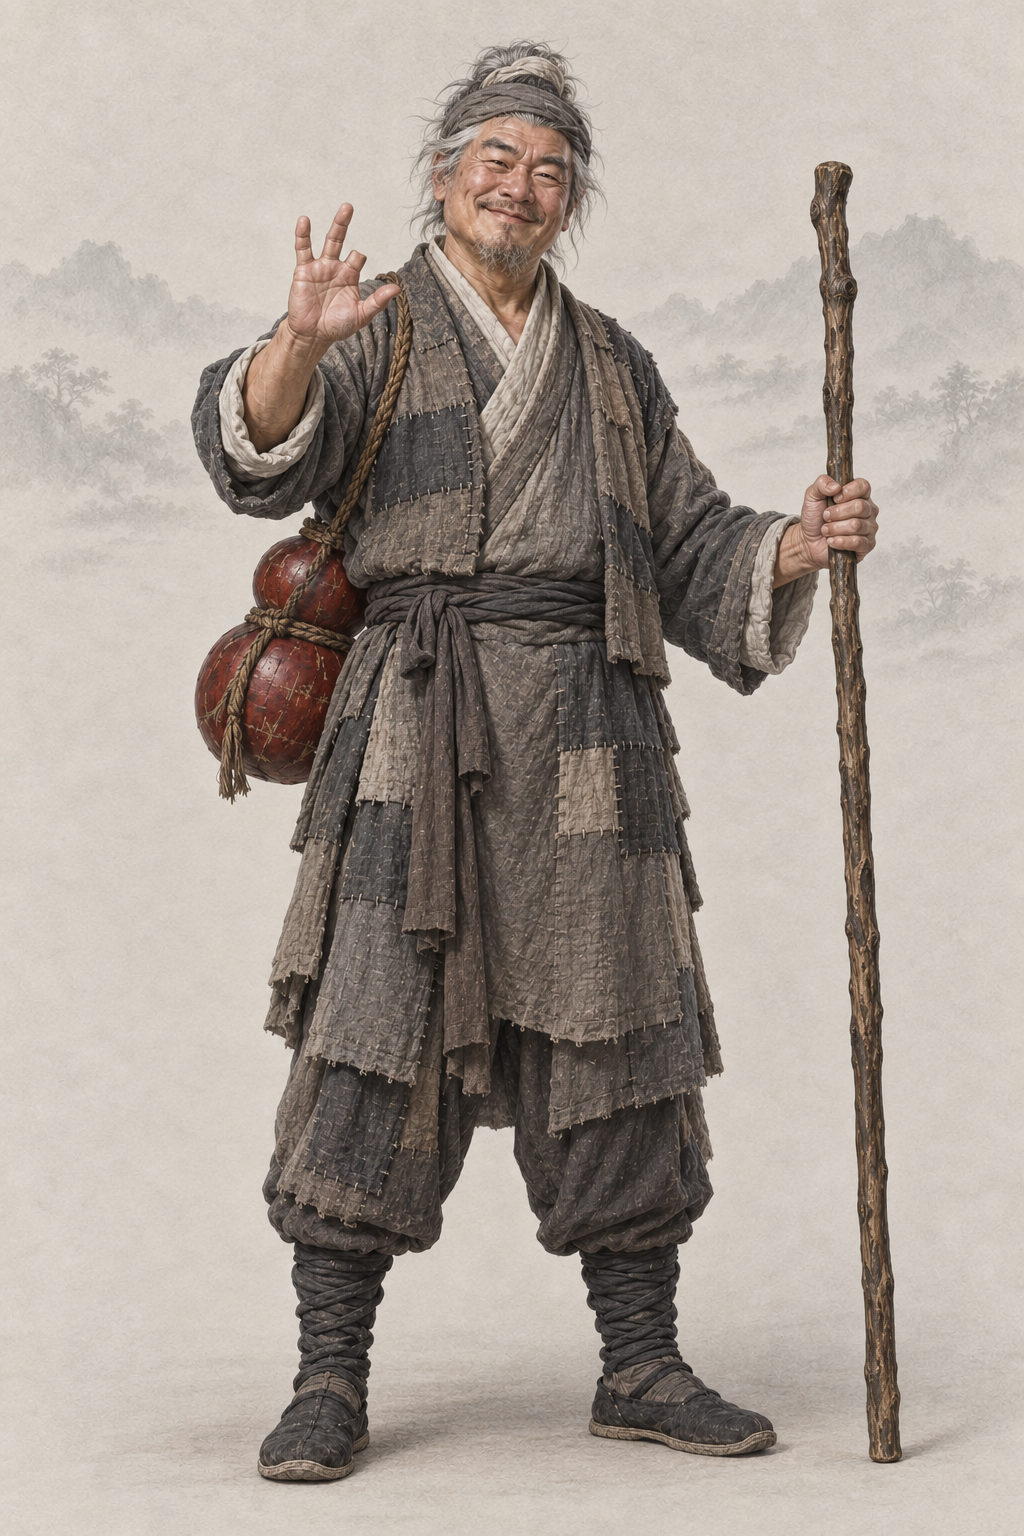
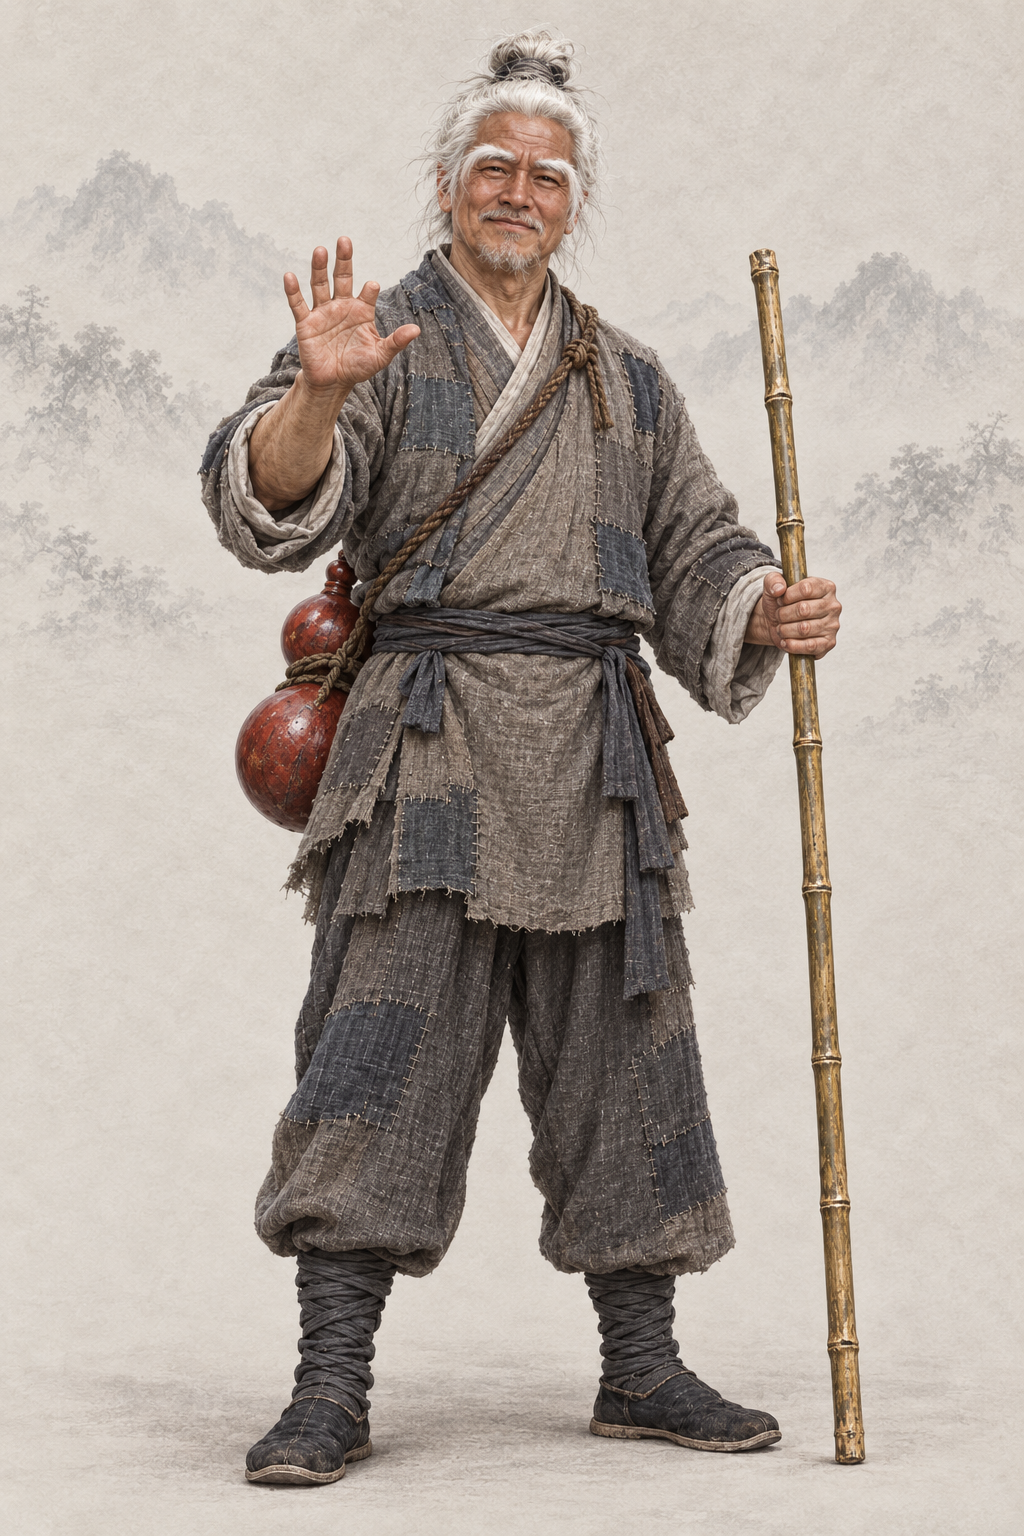
assets(character): por_npc_hongqigong__ch03_elder_base 洪七公（codex · AR-32 补记修改 A：同一人锚点 + 1983 TVB《射雕英雄传》（经由本轮新出的射雕洪七公锚点传递，另附 1 张剧照） 剧照 + 基线）
作者 10-02：改微须；以本轮新出的射雕洪七公为同一人锚点，年长十余岁。上传顺序：第 1 张为本轮新出的射雕洪七公立绘（同一人锚点，por_npc_hongqigong__ch02_elder_bangzhu_base）；第 2 张为 1983 TVB《射雕英雄传》洪七公剧照（hongqigong_1983_liudan_sina2001.jpg），最后两张为同性别基线；r1；提示词写回，旧段留作历史。

diff --git a/assets/default/prompts/characters/ch03-shendiao/npc_hongqigong.md b/assets/default/prompts/characters/ch03-shendiao/npc_hongqigong.md
@@ -12,11 +12,18 @@ references:
   - path: assets/default/baseline/character/male/ref_npc_xiaofeng__ch01_base01.png
     use: 当前工作区 manifest 为 candidate，未获批准；仅约束纸底、光线、笔触、设色，不沿用参考人物的脸、体型、服饰或道具。
 status: new
-redo_reason: "神雕洪七公尚无立绘；上传本轮新出的射雕洪七公作身份参考，同一人老二十年、仍九指背葫芦"
+codex_prompt_rev: 2026-10-02
+redo_reason: 作者 10-02：改微须——原著「颏下微须」；以本轮新出的射雕洪七公作同一人锚点，年长十余岁；九指、朱红葫芦不变（打狗棒已传黄蓉，改持普通旧竹杖）
 reference_upload:
 - assets/default/character/male/ch02/por_npc_hongqigong__ch02_elder_bangzhu_base.png
+- .agents/coord/imagegen-reference/identity-20261001/shediao/hongqigong_1983_liudan_sina2001.jpg
 - assets/default/baseline/character/male/ref_npc_linghuchong__ch05_base01.png
-codex_prompt_rev: 2026-10-02
+- assets/default/baseline/character/male/ref_npc_xiaofeng__ch01_base01.png
+classic_ref:
+  version: 1983 TVB《射雕英雄传》（经由本轮新出的射雕洪七公锚点传递，另附 1 张剧照）
+  stills:
+  - .agents/coord/imagegen-reference/identity-20261001/shediao/hongqigong_1983_liudan_sina2001.jpg
+  anchor: assets/default/character/male/ch02/por_npc_hongqigong__ch02_elder_bangzhu_base.png
 ---
 
 <!-- full-coverage-import:current-policy:v1 -->
@@ -29,6 +36,25 @@ codex_prompt_rev: 2026-10-02
 # 洪七公 · 《神雕侠侣》（ch03）
 
 ## Gemini 提示词
+
+> 2026-10-02 AR-32 补记修改 A（9 号出图员，codex exec · image_gen）：作者 10-02：改微须；以本轮新出的射雕洪七公为同一人锚点，年长十余岁。上传顺序：第 1 张为本轮新出的射雕洪七公立绘（同一人锚点，por_npc_hongqigong__ch02_elder_bangzhu_base）；第 2 张为 1983 TVB《射雕英雄传》洪七公剧照（hongqigong_1983_liudan_sina2001.jpg），最后两张为同性别画风基线（缩小版 JPEG）。参考图只借造型、气质与面部特征，画面按项目画风重绘、不复制照片。上一版保留在下一节作历史。
+
+```text
+生成一张 2:3 竖幅全身人物立绘：单人、单一视角、完整全身——头顶、双手、双脚和手中器物的两端都在画面内，四周留出自然空白；人物站姿自然，身体基本朝向正面，头部端正（不歪头、不仰不俯），镜头平视。
+【参考图】第 1 张参考图是本项目刚画好的《射雕》时期洪七公立绘（同一人锚点）：这是同一个人十几年后的样子——长方脸、五官、颏下微须的样式、粗大的骨架和九指都以第 1 张为准，自然老去，不要换成另一个人；不照搬它的构图和姿势。第 2 张是该角色经典影视造型的剧照，只借老叫化的神采与气度，剧照里的白色长髯不要；必须重新绘制成项目画风，不要照片质感。最后两张是本项目画风基线：画风、用色、光线、质感和暖浅灰纸底加淡水墨背景以它们为准，但不取基线人物的长相。
+【画风】写实手绘古风人物插画，与本项目写实武侠角色立绘同一画风，像功力深厚的画师用细腻笔触画出的真实人物。手绘插画质感，不是 CG 渲染：不要过度光滑的皮肤、完美对称的五官、塑料高光、过度锐利的发丝；保留自然的笔触和细微不完美。皮肤有真实质感——细小毛孔、细纹、晒痕和自然的左右不对称，不磨皮、不油亮；头发是一缕缕自然的发丝和少量碎发；布料看得出经纬纹理、厚薄和自然垂坠的褶皱，带穿用过的轻微旧化，但完整不破烂；整体设色低饱和、沉稳；柔和的自然光从左上方照来，明暗过渡自然，不打舞台光、轮廓光或美颜柔光。不是照片，不是三维渲染，不是动漫或游戏 CG，也不是油画（没有厚涂笔触和画布纹理）。
+【背景】不透明的暖浅灰色纸底，只在远处有极淡的水墨远山和薄雾，大面积留白；人物与背景明暗分明、轮廓边缘干净完整（后续要自动抠图），水墨和纸纹只在背景里，不侵入人物和衣服；脚下只有很淡的一点接触阴影。
+【人物】洪七公，《神雕侠侣》时期的老年北丐、前任丐帮帮主（打狗棒已传给黄蓉）；华山雪峰与杨过相遇、命终之前，依旧豪爽诙谐。
+【年龄与体态】约七十岁、精神矍铄的老叫化：比第 1 张年长十余岁，骨架仍然粗大、粗手大脚，人清瘦了些，但腰板仍直、精神十足，不老态龙钟。
+【面容】同一张长方脸自然老去：头发和眉毛都已全白，皱纹更深，眼角和额头的纹路更密；胡须仍是原著的颏下微须——下巴颏下几绺短而稀疏的白须，贴着下巴、长不过一寸多，唇上只有极短的白髭，两腮没有胡子；眼睛细长带笑，鼻头大而红润；脸色仍然红润，皮肤粗糙、有风霜和老人斑。
+【服饰】厚实的灰褐色交领旧布袍（右衽，左襟压右襟），外罩一件打满补丁的短褂（补丁整洁、洗得干净），深色布带，裹腿布鞋，衣着完整御寒；白发在头顶挽个髻，用旧灰布条束住。
+【道具】背上斜背那只朱红漆大酒葫芦，系绳清楚；左手扶一根普通的旧黄竹杖（不是碧绿的打狗棒），五指完整。右手抬到胸前、掌心朝外——九指：右手食指缺了一截，只剩靠近掌根的短短一节，断处早已愈合成圆钝光滑的指头（无血、无伤口），拇指、中指、无名指、小指完整。
+【姿态与神情】站姿洒脱，身体基本正面，笑眯眯、豪爽乐观。
+【不要】画面里不要任何文字、题款、印章、签名、水印、边框、分格或多视图；不要第二个人；不要幼态（童颜、娃娃脸、婴儿肥、儿童或少年身材、大头小身）；不要塑料感皮肤、磨皮美颜、网红脸（尖下巴大眼高鼻的模板脸）、过度对称、浓妆、偶像式打光、蜡像感；不要照片质感，不要像剧照照片、照片修图或拼贴，不要照搬剧照的背景、光影、构图和姿势；不要三维渲染或动漫大眼；不要歪头、斜镜头；不要多指、缺指（设定的伤残除外）、手与器物粘连或悬空；衣襟必须右衽（穿着者的左襟压在右襟上），不要左衽（设定为少数民族服制的除外），不要水平镜像；不要现代物品、发光特效、法阵或能量光。不要换成另一张脸；不要碧绿打狗棒（已传位）；不要白色长髯或垂胸长须；不要十指俱全，也不要血淋淋的断指；不要老态龙钟、佝偻拄拐。
+【画风基线】随提示词上传的参考图里，最后两张是本项目的立绘画风基线：只参考它们的画风、用色、光线、质感和暖浅灰纸底加淡水墨的背景处理，整体画风必须与它们一致——精细写实的数字手绘插画，不是油画，不要厚涂笔触和画布纹理。基线图只取画风，不取长相：不要照搬基线图里人物的长相、年龄、发型、服饰和姿势。
+```
+
+## AR-32 补记修改前的 Gemini 提示词（1 号出图员版；2026-10-02 上午，历史，不再用于出图）
 
 > 2026-10-02 AR-31 改写（1 号出图员，codex exec · image_gen 出图）：重要人物借鉴经典影视造型，只写成文字——不写演员名、不上传剧照、原创面孔；主角和美人画得好看，去 AI 味，禁止幼态。出图时上传两张同性别基线立绘作画风参考（放在最后）；第 1 张为身份参考（por_npc_hongqigong__ch02_elder_bangzhu_base.png）。审核组原稿保留在下一节作历史。
 
